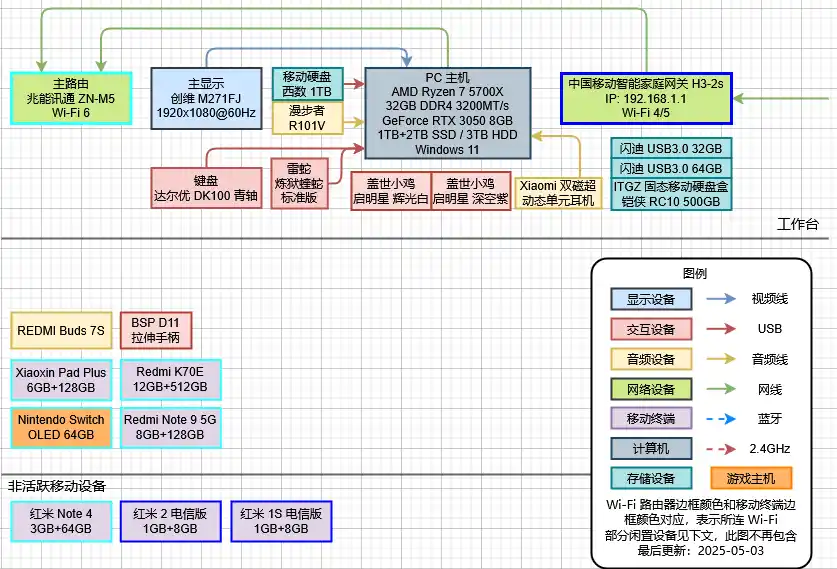
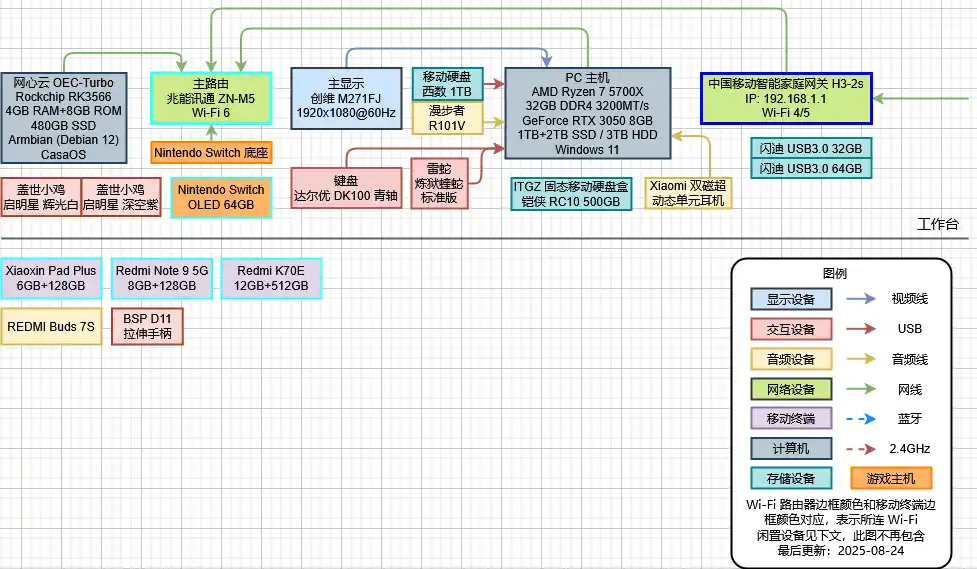
Update device-map.webp

diff --git a/source/_posts/2022-01-27-my-devices.md b/source/_posts/2022-01-27-my-devices.md
@@ -3,7 +3,7 @@ title: "我的电子设备们"
 top_img: false
 ---
 
-- **最后更新**：2025-08-22
+- **最后更新**：2025-08-24
 
 <img src="/img/in-post/device-map.webp" />
 
@@ -22,6 +22,15 @@ top_img: false
 - **键盘**: 达尔优 DK100 青轴
 - **鼠标**: 雷蛇 炼狱蝰蛇标准版
 - **OS**: Windows 11 Pro 24H2 (安装于 SSD1)
+
+### 网心云 OEC-Turbo
+- **状态**: 轻 NAS
+- **购买时间**: 2025-08-19
+- **CPU**: Rockchip RK3566
+- **RAM**: 4GB
+- **ROM**: 8GB eMMC
+- **SSD**: 铠侠 TC10 480GB SATA
+- **OS**: Armbian Debian 12 + CasaOS
 
 ### 自组装台式机 (2014)
 - **状态**: 不在常住处，不能用了
